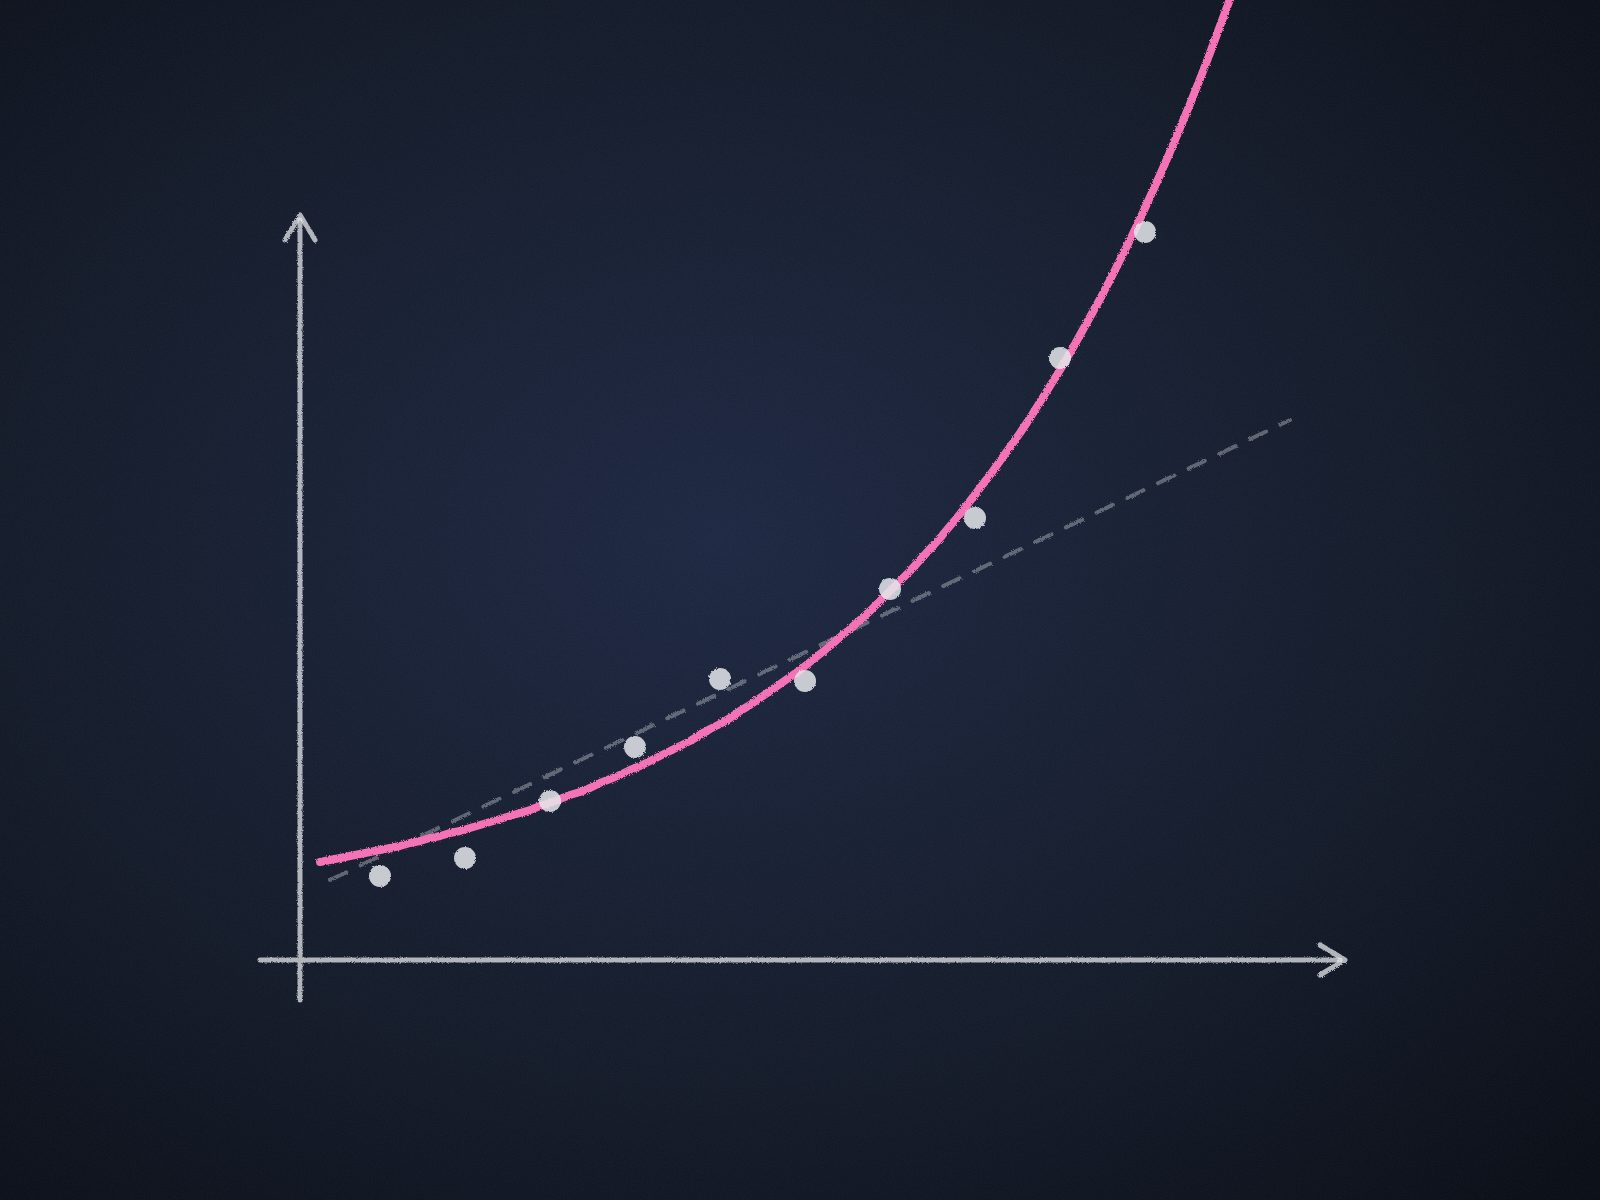
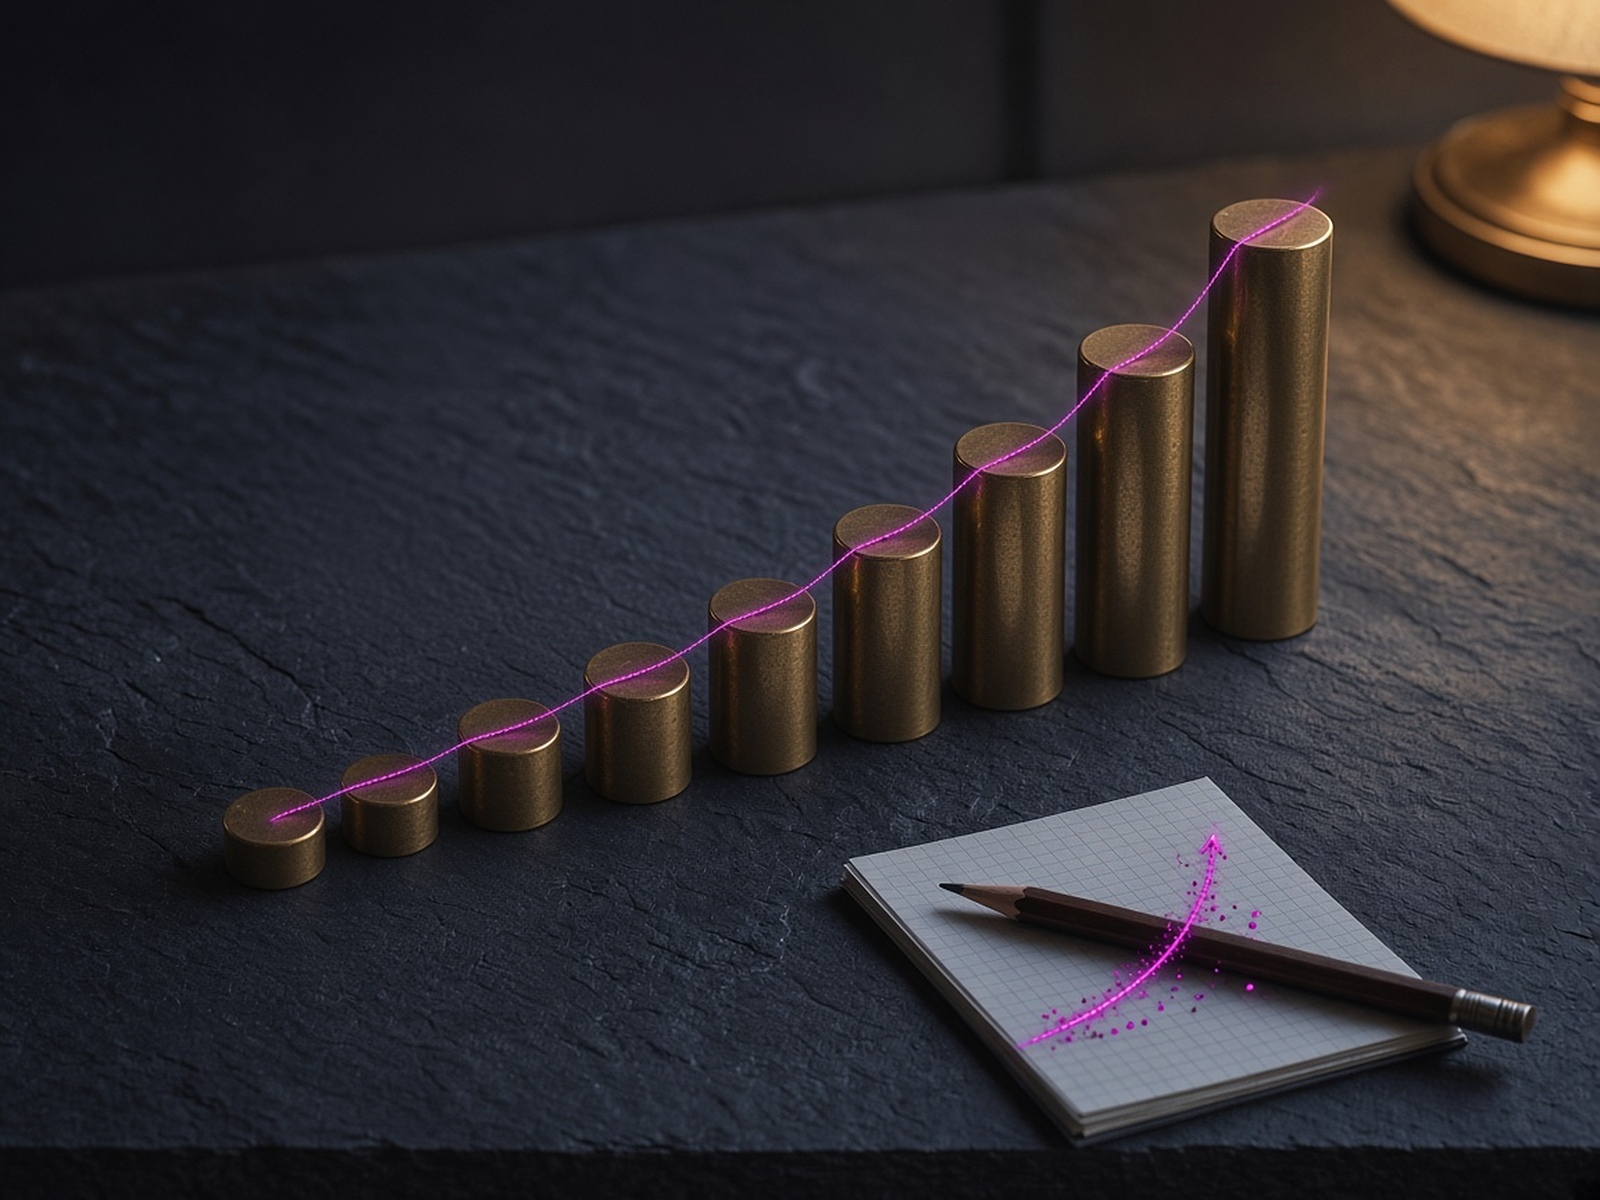
Omslag kap6/kap7 i fotostil som kap1–4 (magenta- og rosa-aksent), fjern design/covers

diff --git a/src/data/content.ts b/src/data/content.ts
@@ -140,7 +140,7 @@ export const CHAPTER_META: Record<
     image: "/images/kap5.jpg",
     tint: "#22d3ee",
   },
-  // kap6/kap7: abstrakte omslag laget fra SVG (design/covers). Tint-kontrast mot #111827: rosa 6,7:1, rosa-rød #fb7185 6,6:1.
+  // kap6/kap7: omslag i samme fotostil som kap1–4 (1600×1200 JPEG). Tint-kontrast mot #111827: rosa 6,7:1, rosa-rød #fb7185 6,6:1.
   kap6: {
     short: "Modellering",
     blurb: "Matematiske modeller, regresjon og modellering i praksis",
